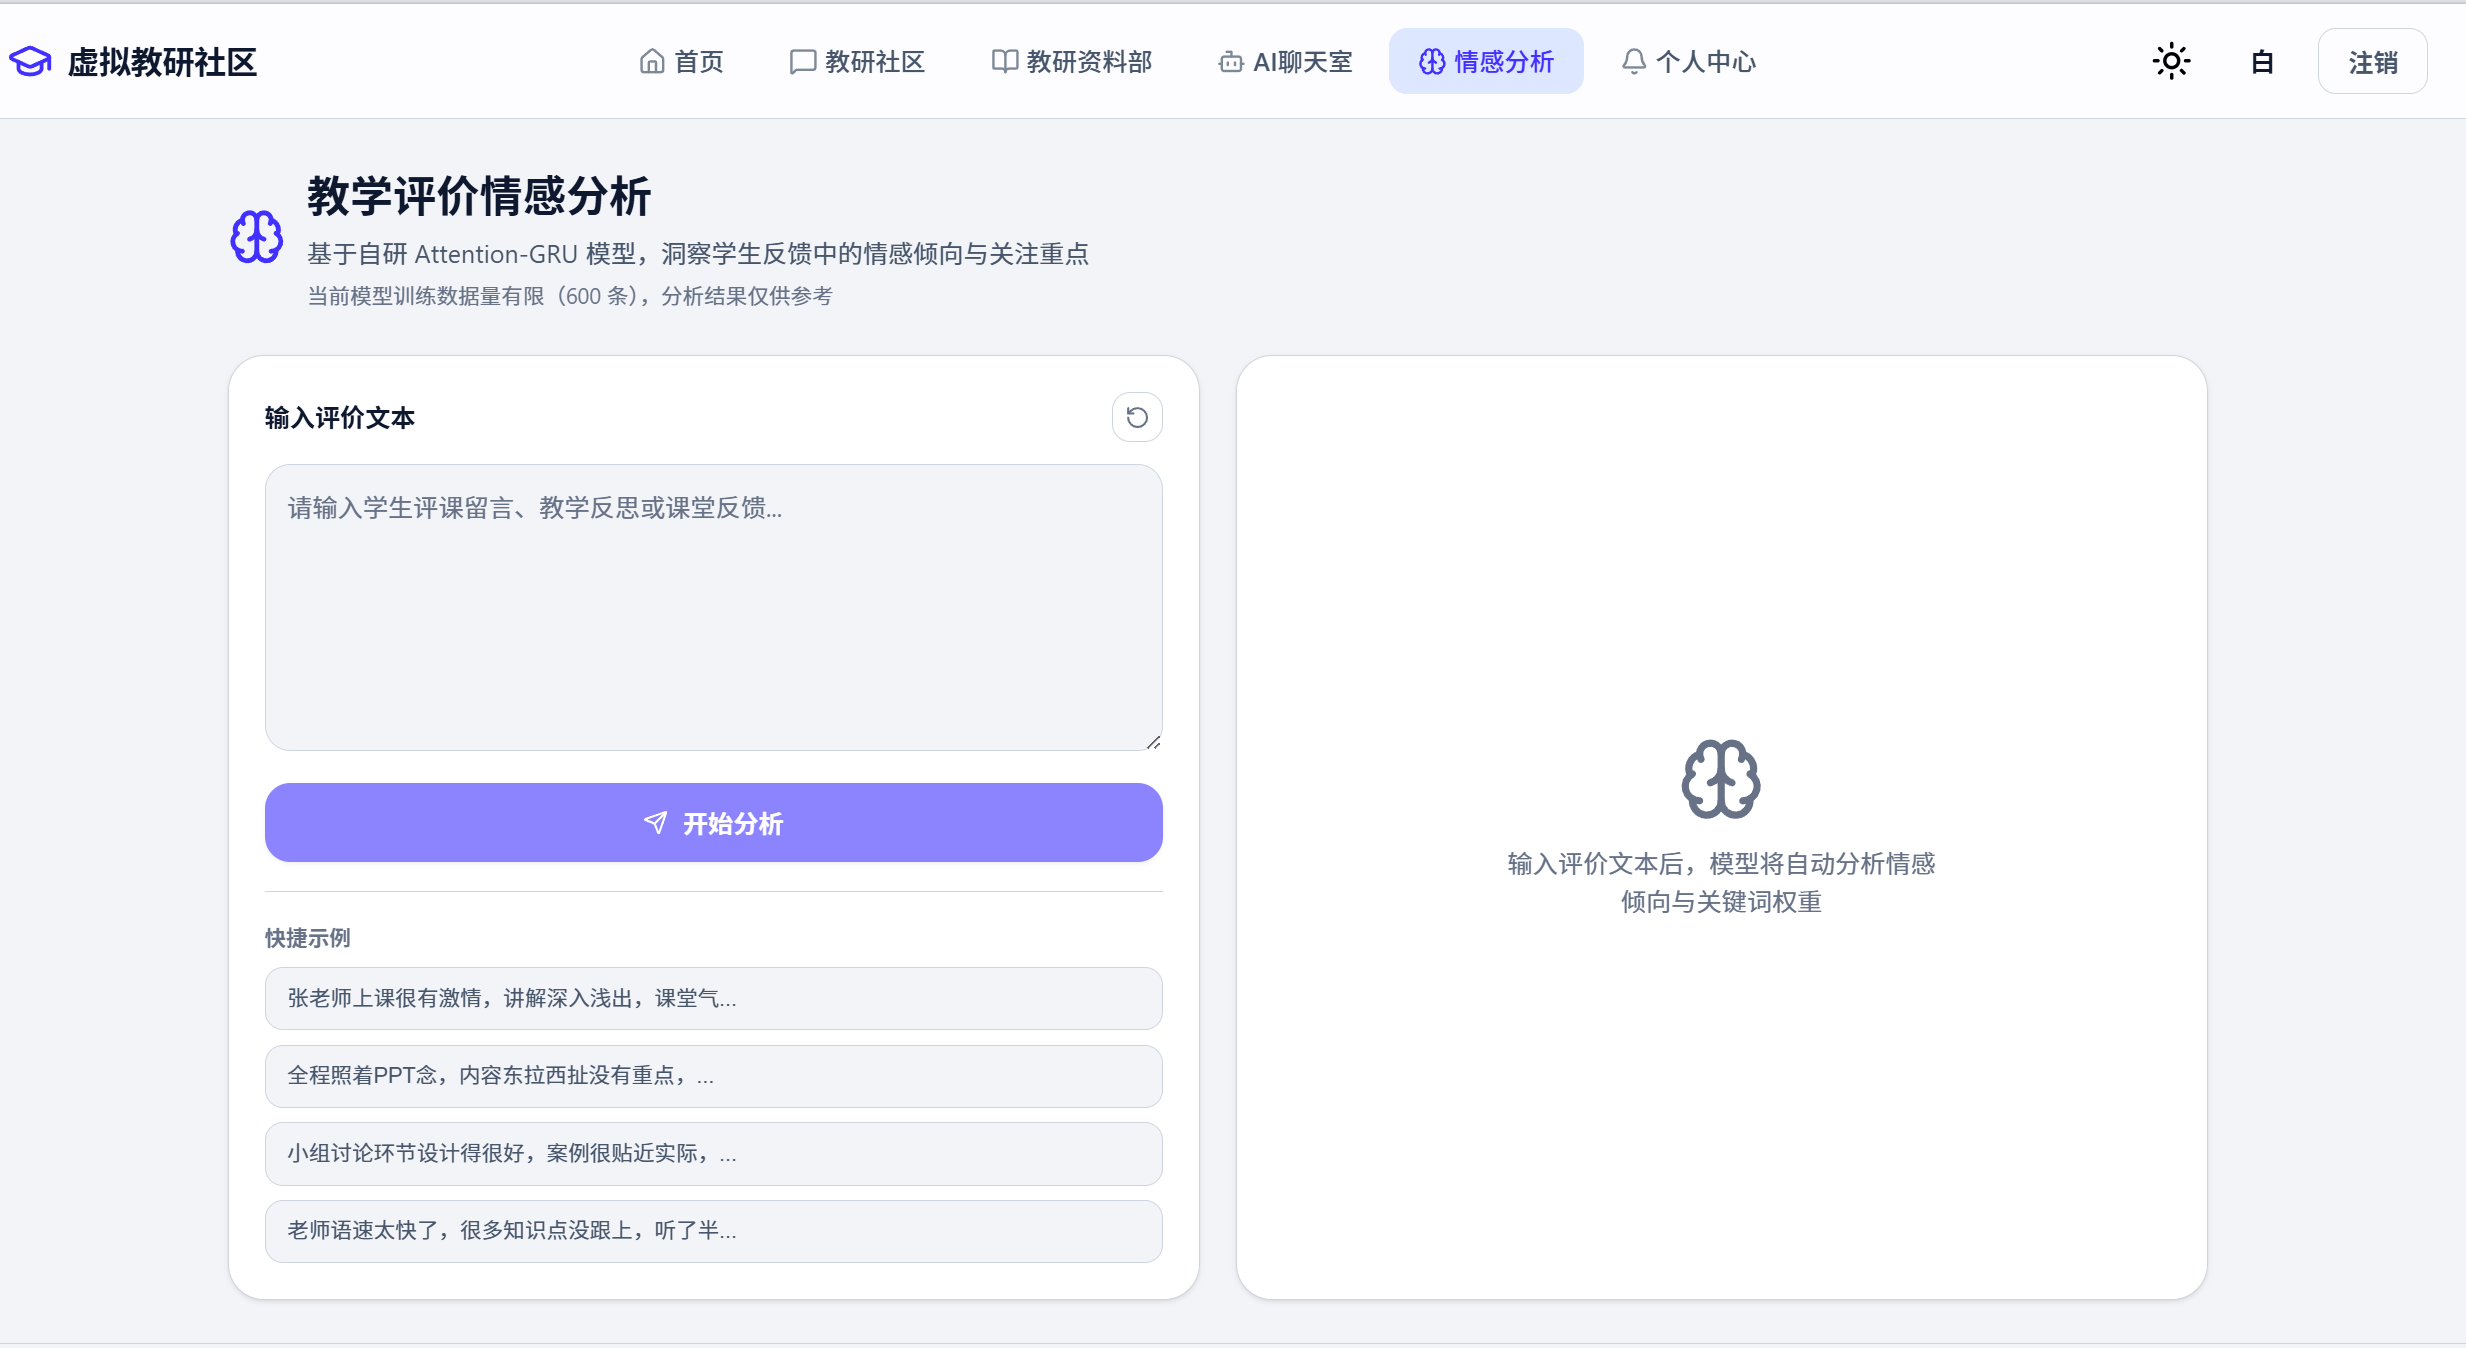
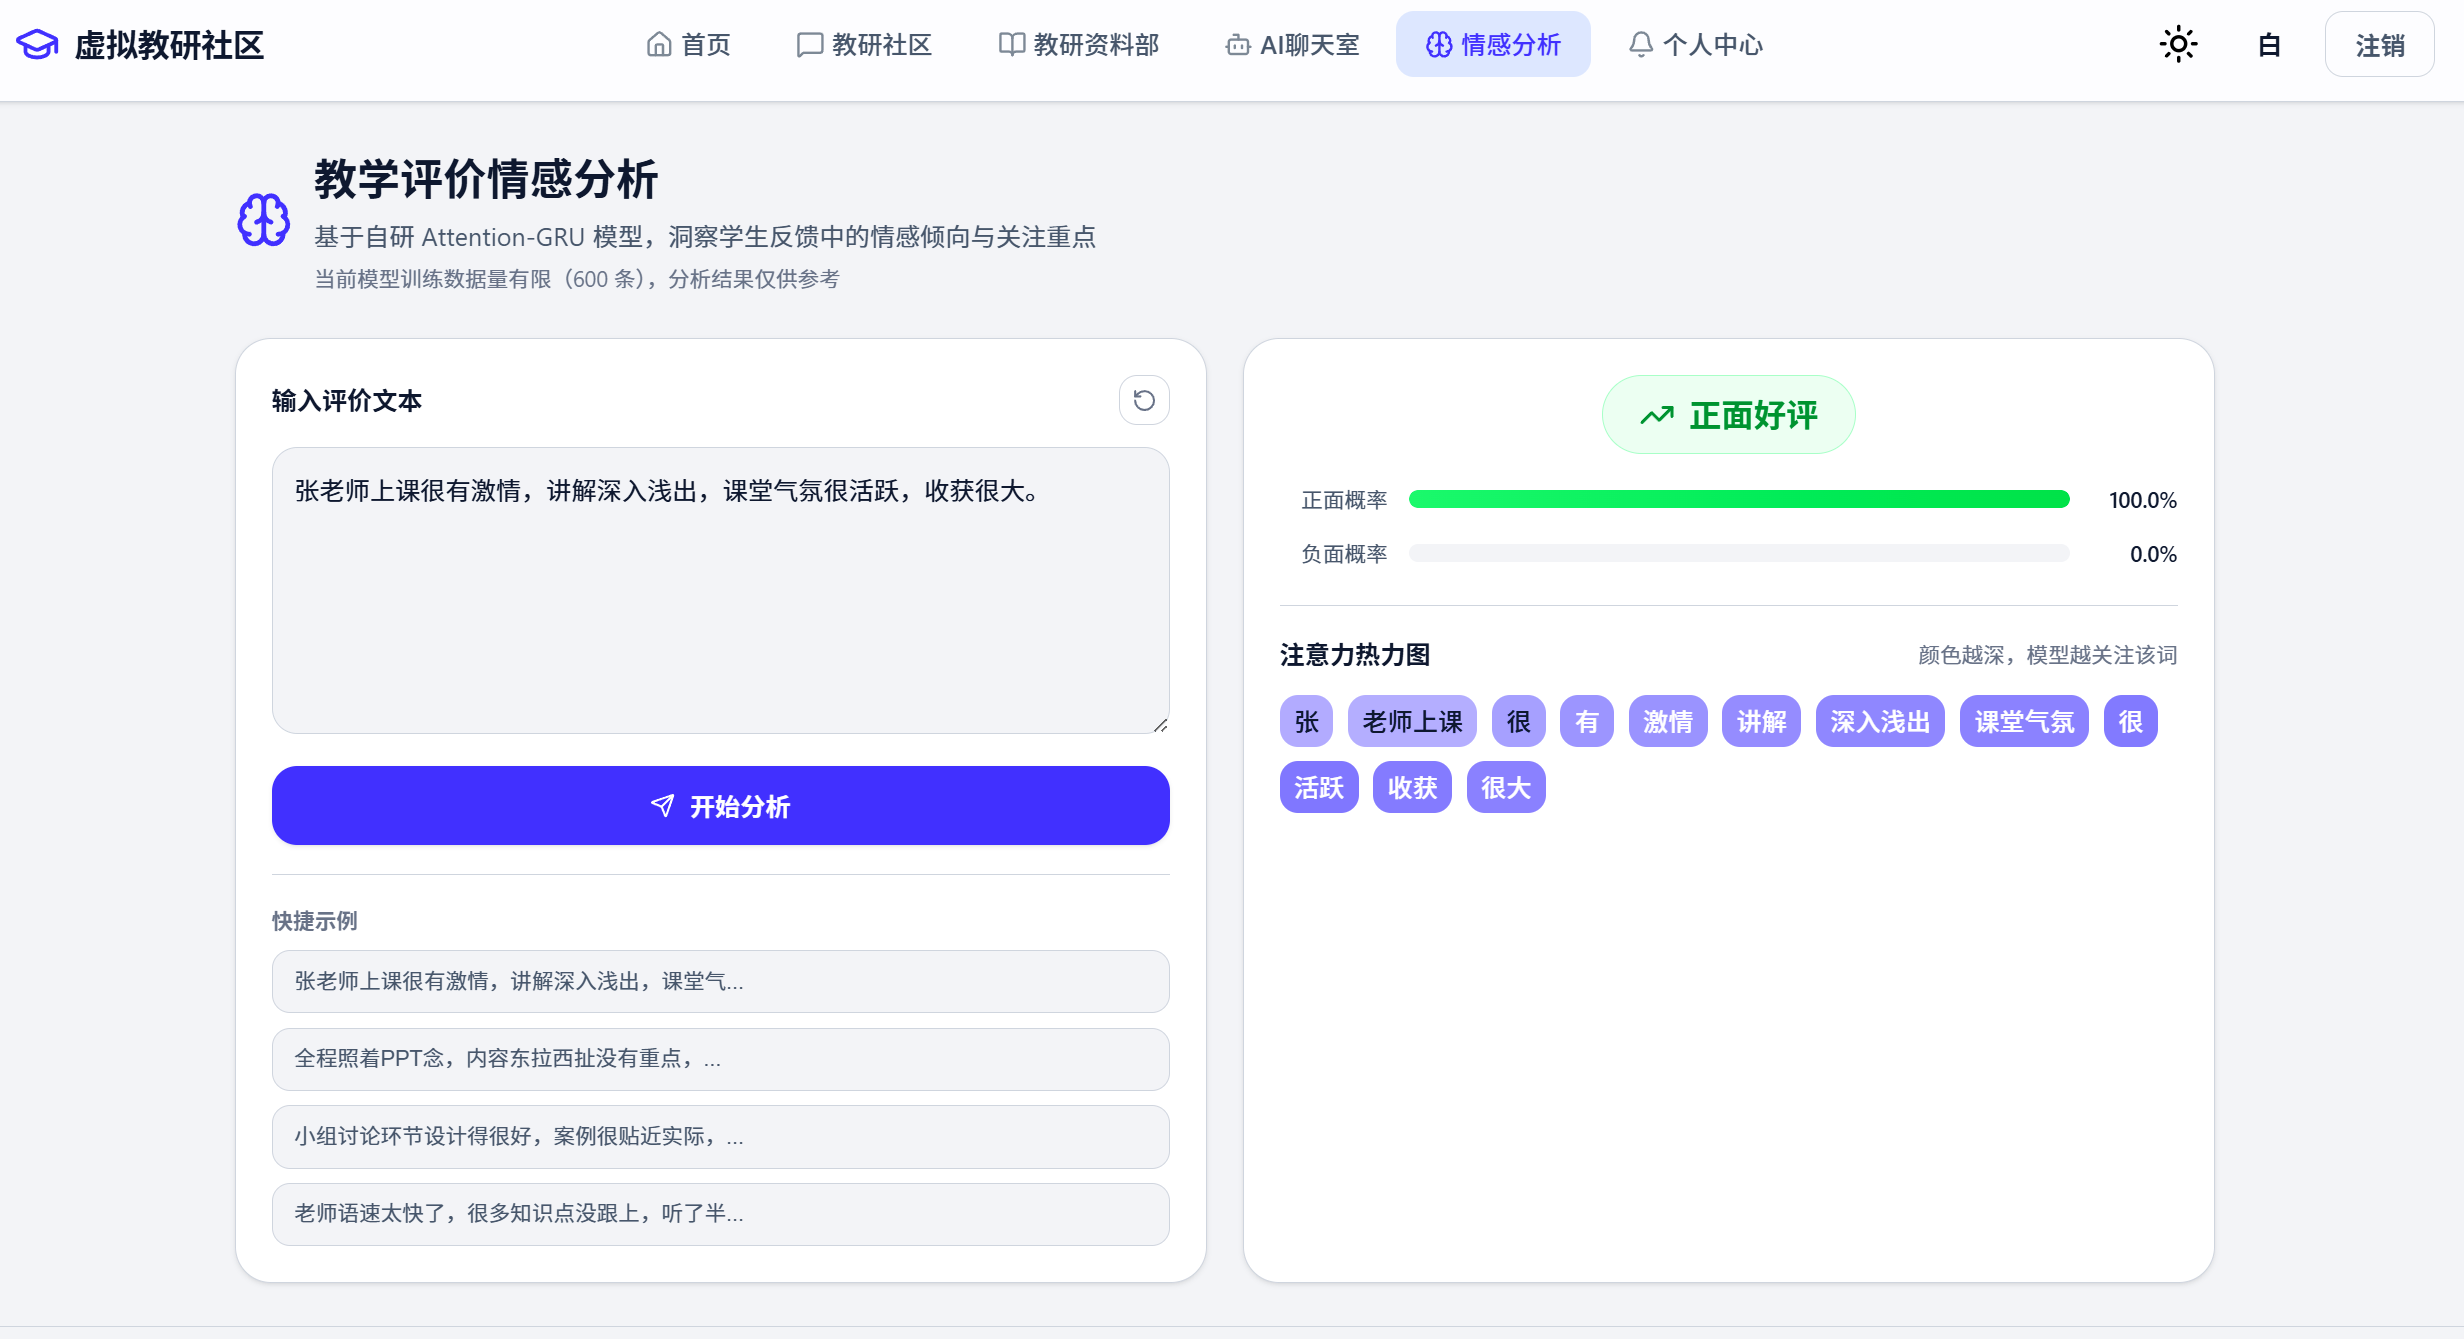
refine: poster-a3 高清处理 — transform scale(5) 渲染到 3508×4961 (A3 300dpi)

diff --git a/docs/exhibition/poster-a3.html b/docs/exhibition/poster-a3.html
@@ -9,9 +9,16 @@
 
   body {
     font-family: "PingFang SC", "Noto Sans SC", "Microsoft YaHei", -apple-system, sans-serif;
-    background: #d1d5db;
-    display: flex; justify-content: center; align-items: center;
-    min-height: 100vh; padding: 20px;
+    background: #111;
+    display: flex; justify-content: center; align-items: flex-start;
+    padding: 40px;
+  }
+
+  .hi-res {
+    width: 3508px; height: 4961px; overflow: hidden;
+  }
+  .hi-res-inner {
+    transform: scale(5); transform-origin: top left;
   }
 
   .poster {
@@ -25,7 +32,7 @@
 
   @media print {
     body { background: white; padding: 0; }
-    .poster { width: 297mm; height: 420mm; box-shadow: none; }
+    .hi-res { width: 297mm; height: 420mm; }
   }
 
   /* ---- 点阵 ---- */
@@ -242,7 +249,7 @@
 </style>
 </head>
 <body>
-<div class="poster">
+<div class="hi-res"><div class="hi-res-inner"><div class="poster">
   <div class="dots"></div>
   <div class="flow"></div>
   <div class="glow g1"></div>
@@ -340,6 +347,6 @@
       </div>
     </div>
   </div>
-</div>
+</div></div></div>
 </body>
 </html>
